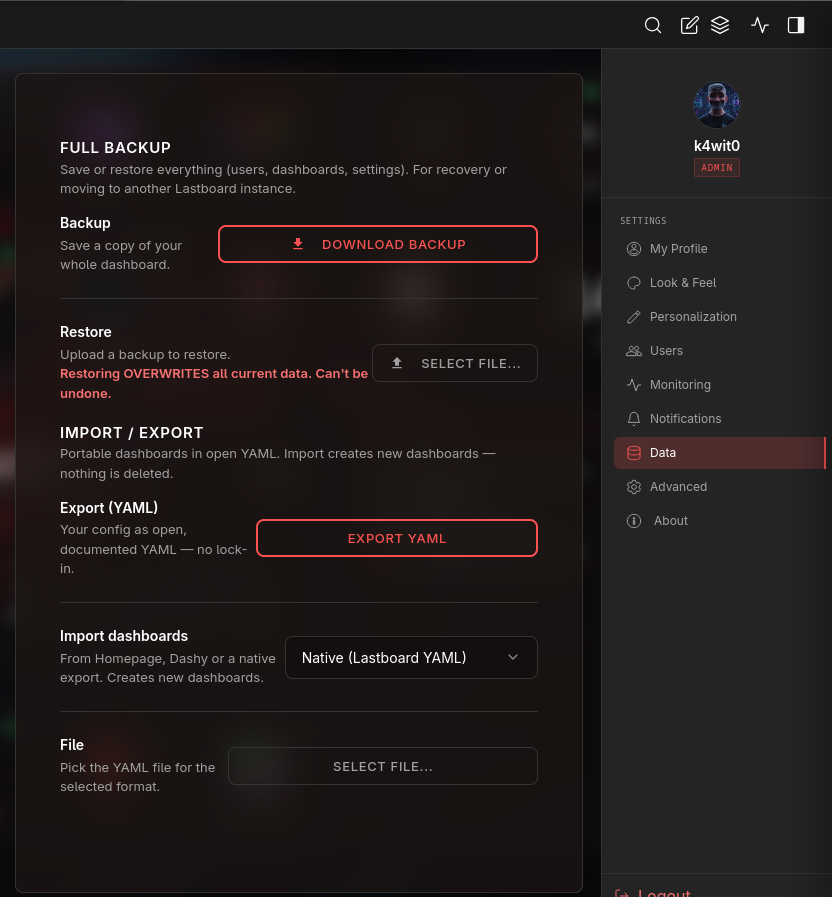
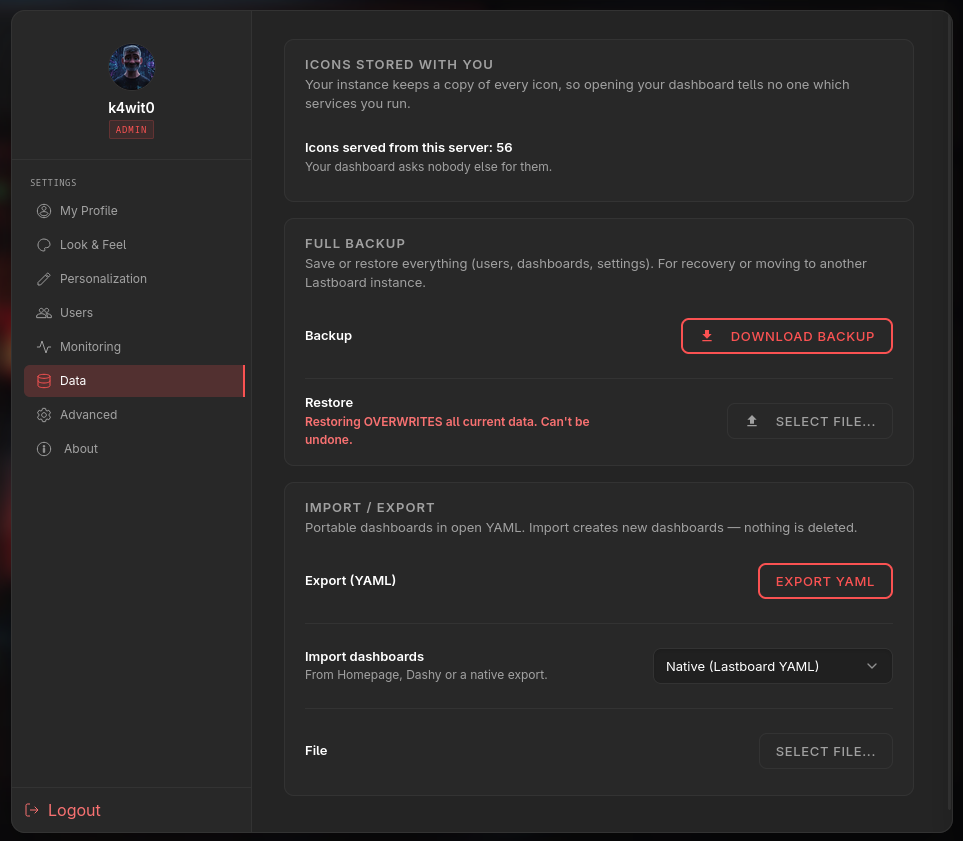
docs: show the settings panel as it looks now
All eight sections were shot again against the redesigned window, where the
nav and the content are one surface, so the screenshots stop showing a panel
that no longer looks like that.

Two of them change name with the section they show: p-myprofile becomes
p-profile and p-avanced becomes p-advanced, which also drops the typo the old
file carried and the comment that existed to explain it.

Two are gone rather than replaced:

- p-panel.png was the side menu on its own. Every new screenshot includes the
  menu, and that one still listed a Notifications entry that stopped existing
  when it was folded into Monitoring.
- p-notifications.png, for the same reason: notifications are a card inside
  Monitoring now, and the new p-monitoring.png shows both cards. The paragraph
  that used it points at that screenshot instead.

Checked before deleting that codigosh.com references none of the four by raw
URL — only home.png and monitor.png are used that way, from the project page —
and the docs it publishes are regenerated from this repo on every build. Every
remaining reference resolves and no image is left unused.

diff --git a/docs/using/preferences.md b/docs/using/preferences.md
@@ -2,15 +2,13 @@
 
 All personalization and system options live in the **Settings** panel, opened from the icon in the top navigation bar.
 
-![Settings menu](../assets/p-panel.png)
-
 **Preferences save the moment you change them** — there is no "Save" button. Only actions with a real consequence (changing your password or username, managing users, backup/restore, updates) keep an explicit button.
 
 ## My Profile
 
 Manage your personal profile and security.
 
-![My Profile](../assets/p-myprofile.png)
+![My Profile](../assets/p-profile.png)
 
 - **Avatar** — upload a custom profile picture (use **Change Image**).
 - **Username** — change your display name, then **Save Name**. This signs you out, since the session is tied to it.
@@ -57,8 +55,7 @@ It also says where your icons come from — how many this server hands out, and 
 
 ## Advanced
 
-<!-- p-avanced.png keeps the app's own spelling of the file -->
-![Advanced](../assets/p-avanced.png)
+![Advanced](../assets/p-advanced.png)
 
 - **Reset System** — a safe-guarded "wipe everything" that erases all data and returns the instance to a fresh start (the Setup Wizard). This cannot be undone.
 

diff --git a/docs/monitoring/overview.md b/docs/monitoring/overview.md
@@ -64,9 +64,7 @@ Clearing data does not turn monitoring off — new checks start accumulating aga
 
 ## Notifications
 
-When **24/7 monitoring** is on, Lastboard can send an alert when a service goes down and again when it recovers. Configure this in **Settings → Monitoring**, in the Notifications card below the monitoring settings.
-
-![Notifications settings](../assets/p-notifications.png)
+When **24/7 monitoring** is on, Lastboard can send an alert when a service goes down and again when it recovers. Configure this in **Settings → Monitoring**, in the Notifications card below the monitoring settings — the screenshot at the top of this page shows both cards.
 
 | Setting | Description |
 | :--- | :--- |
